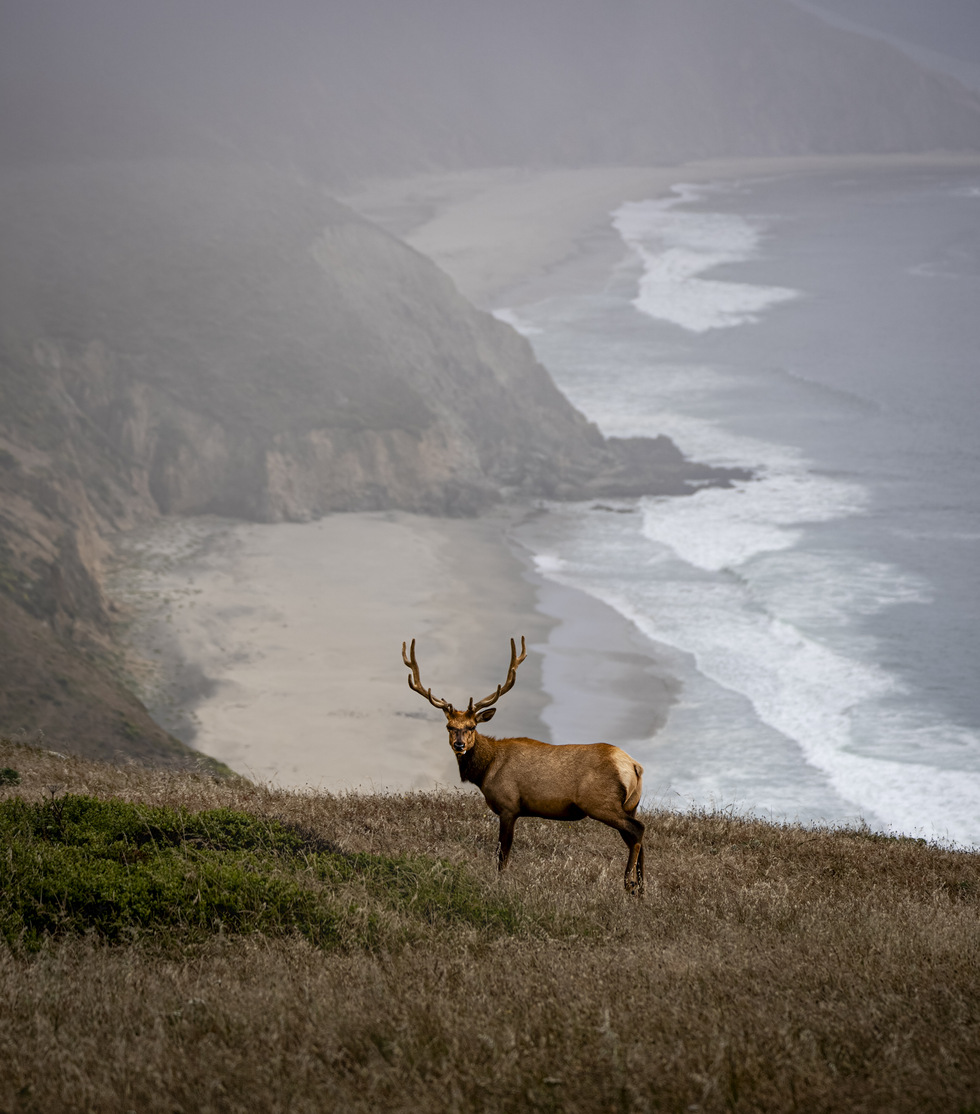
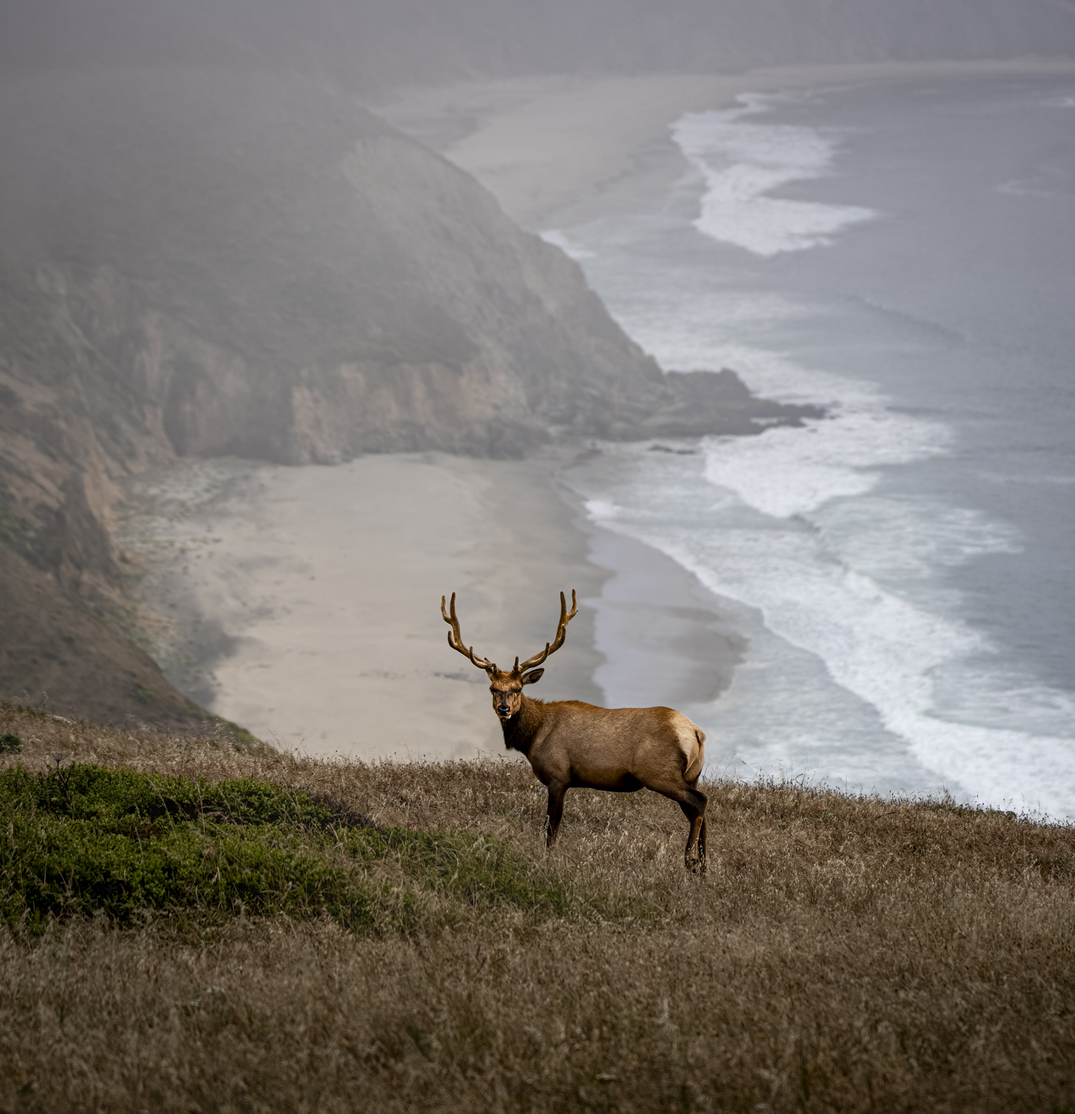
Update Tule Elk photo with new version
Regenerates 900px thumb and 1600px large; updates thumb dimensions in index.html (869x900).

Changed region(s): [[0.0, 0.0938, 1.0, 0.9688]]

diff --git a/index.html b/index.html
@@ -50,7 +50,7 @@
             <div class="gallery-grid">
                 <!-- COLOR PHOTOS -->
                 <div class="gallery-item portrait" data-type="color">
-                    <img src="images/thumbs/Tule-Elk.jpg" data-full="images/Tule-Elk.jpg" alt="Tule Elk" loading="lazy" srcset="images/thumbs/Tule-Elk.jpg 900w, images/large/Tule-Elk.jpg 1600w" sizes="(min-width: 768px) min(1000px, 100vw), 100vw" width="792" height="900">
+                    <img src="images/thumbs/Tule-Elk.jpg" data-full="images/Tule-Elk.jpg" alt="Tule Elk" loading="lazy" srcset="images/thumbs/Tule-Elk.jpg 900w, images/large/Tule-Elk.jpg 1600w" sizes="(min-width: 768px) min(1000px, 100vw), 100vw" width="869" height="900">
                     <div class="gallery-overlay">
                         <span class="photo-title">Tule Elk</span>
                         <span class="photo-location">Tomales Point, California</span>
